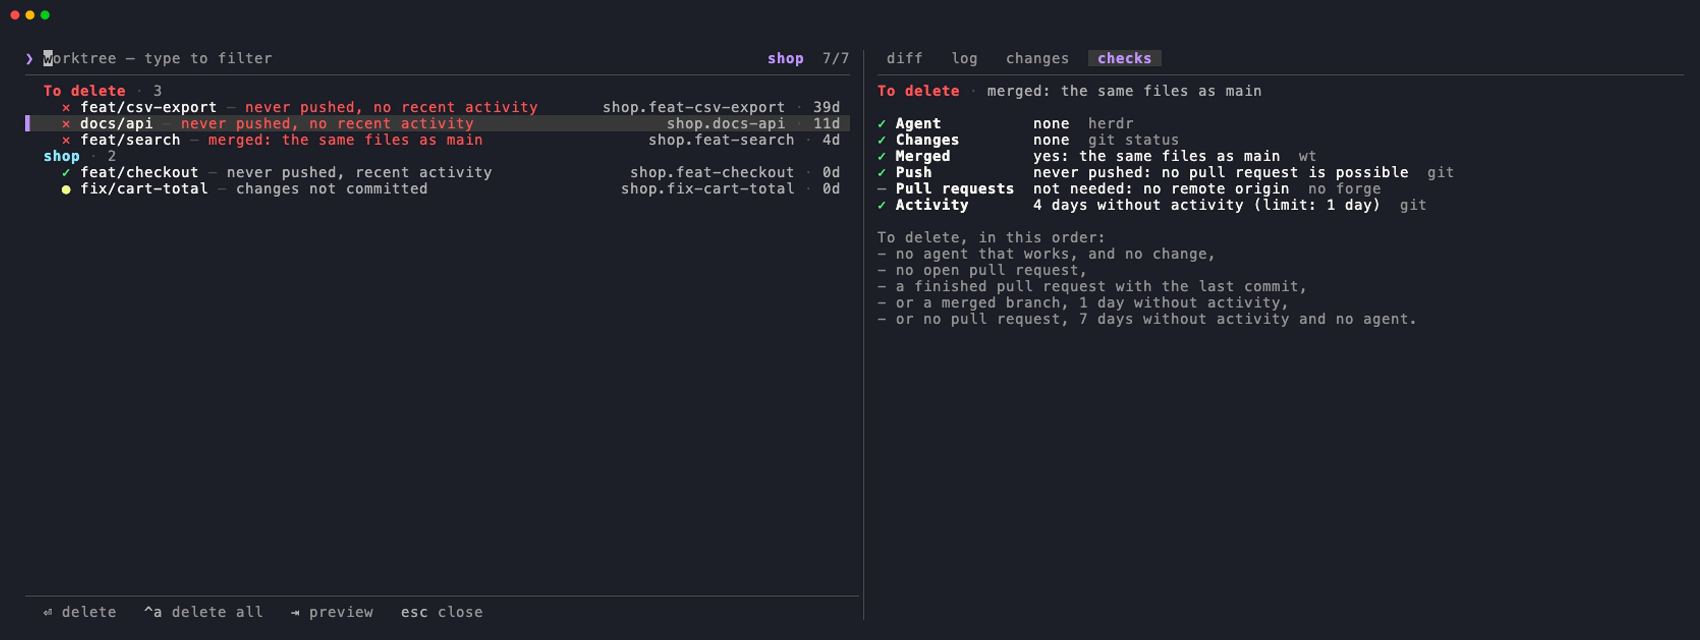
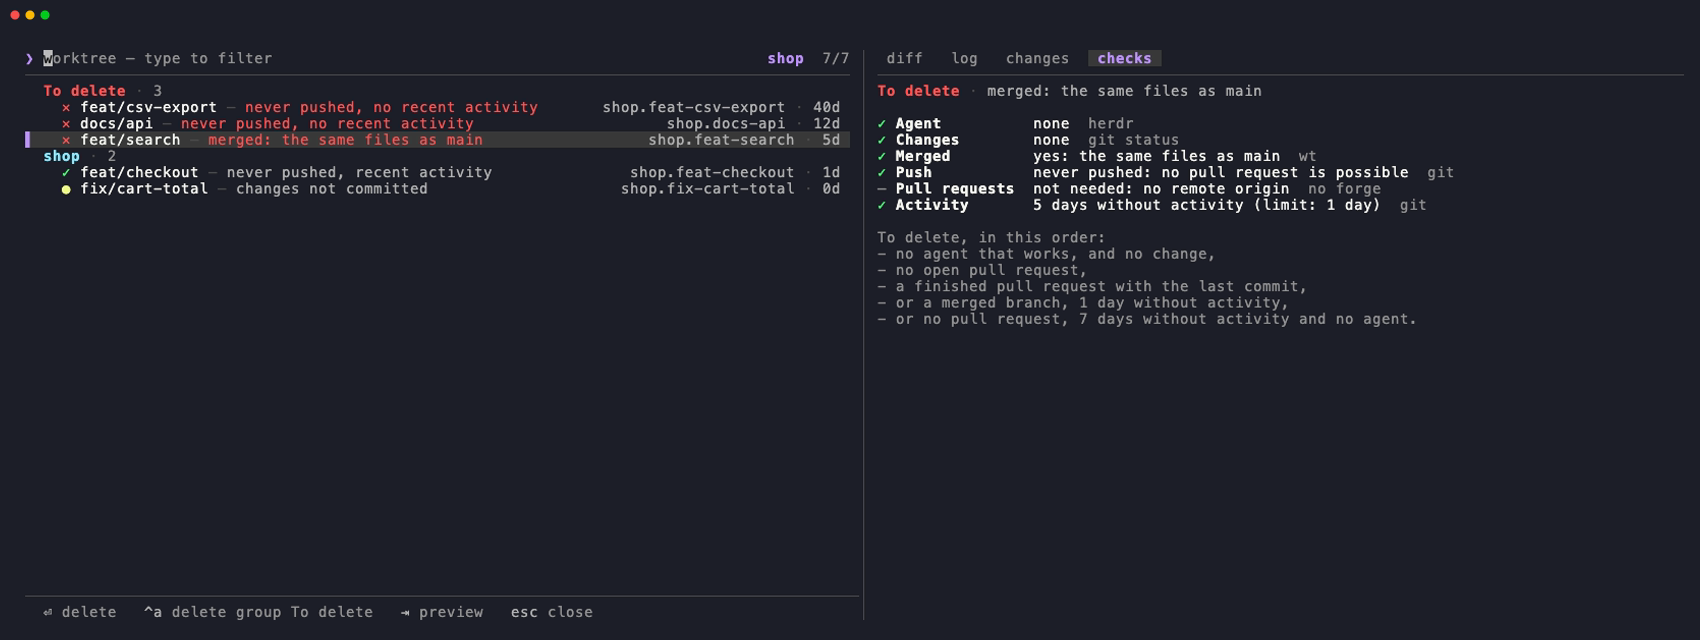
fix: ctrl-a deletes only the leftovers that the filter shows
Before, ctrl-a took all the group To delete, also the rows that the filter of fzf hid.

- ctrl-a gives the ids of the rows that the filter shows ({*f1}). The cleaner keeps the leftovers among them, and writes their paths in a file of the choice. "Delete all" deletes only these worktrees. A worktree of another group never goes, also when the filter shows it.
- If the filter shows no leftover, the header says "The filter shows no worktree of the group To delete."
- The hint says "^a delete group To delete". The question says how many worktrees the filter hides, and that the other groups stay. Its button is "Delete".
- The README and its images follow.

Changed region(s): [[0.0, 0.1562, 0.4988, 0.25], [0.1247, 0.9375, 0.3429, 0.9688]]

diff --git a/src/cleaner.rs b/src/cleaner.rs
@@ -7,8 +7,9 @@
 //!
 //! The module `leftover` gives the layers of the checks and the verdict.
 //!
-//! `Enter` deletes one worktree after a question, `ctrl-a` deletes the
-//! group "To delete". Then the list comes back.
+//! `Enter` deletes one worktree after a question. `ctrl-a` deletes the
+//! worktrees of the group "To delete" that the filter shows, never a kept
+//! worktree. Then the list comes back.
 //!
 //! fzf runs this binary for its events: `cleaner-rows` gives the rows,
 //! `cleaner-move` moves the cursor over the titles of the groups, and
@@ -49,7 +50,7 @@ const GHOST: &str = "worktree — type to filter";
 // The footer has the width of the list: the hints must be short.
 const HINTS: [(&str, &str); 4] = [
     ("⏎", "delete"),
-    ("^a", "delete all"),
+    ("^a", "delete group To delete"),
     ("⇥", "preview"),
     ("esc", "close"),
 ];
@@ -161,16 +162,64 @@ pub fn read_state(path: &Path) -> Vec<Entry> {
         .collect()
 }
 
-/// The leftovers of the state file: the group To delete, for "delete all".
-pub fn leftovers(state_path: &Path) -> Vec<Entry> {
-    leftover_entries(read_state(state_path))
+/// The file of the worktrees that `ctrl-a` chose: the leftovers that the
+/// filter of fzf shows, one path for each line.
+pub fn chosen_path(state_path: &Path) -> PathBuf {
+    state_path.with_extension("delete")
 }
 
-fn leftover_entries(entries: Vec<Entry>) -> Vec<Entry> {
-    entries
+/// The worktrees that "delete all" deletes: the leftovers of the state
+/// file that `ctrl-a` chose and that still exist, and the number of all
+/// the leftovers of the group To delete. The file of the choice goes away.
+pub fn chosen_leftovers(state_path: &Path) -> (Vec<Entry>, usize) {
+    let chosen_file = chosen_path(state_path);
+    let chosen = fs::read_to_string(&chosen_file).unwrap_or_default();
+    let _ = fs::remove_file(&chosen_file);
+    let leftovers: Vec<Entry> = read_state(state_path)
         .into_iter()
-        .filter(|entry| entry.reason.is_leftover())
+        .filter(|entry| entry.reason.is_leftover() && entry.path.exists())
+        .collect();
+    let total = leftovers.len();
+    (chosen_entries(leftovers, &chosen), total)
+}
+
+/// The leftovers whose path is a line of `chosen`.
+fn chosen_entries(leftovers: Vec<Entry>, chosen: &str) -> Vec<Entry> {
+    let chosen: HashSet<&Path> = chosen.lines().map(Path::new).collect();
+    leftovers
+        .into_iter()
+        .filter(|entry| entry.reason.is_leftover() && chosen.contains(entry.path.as_path()))
         .collect()
+}
+
+/// The answer of fzf to `ctrl-a`.
+#[derive(Debug, PartialEq, Eq)]
+enum DeleteAllAnswer {
+    /// Delete these leftovers, after a question.
+    Delete(Vec<PathBuf>),
+    /// No deletion: the header tells why.
+    Header(&'static str),
+}
+
+/// The answer to `ctrl-a`: the leftovers among the rows that the filter
+/// shows (`visible`, one id for each line). A kept worktree never goes.
+fn delete_all_answer(entries: &[Entry], visible: &str) -> DeleteAllAnswer {
+    let visible: HashSet<&str> = visible.lines().collect();
+    let chosen: Vec<PathBuf> = entries
+        .iter()
+        .filter(|entry| entry.reason.is_leftover())
+        .filter(|entry| visible.contains(entry.path.to_string_lossy().as_ref()))
+        .map(|entry| entry.path.clone())
+        .collect();
+    if !chosen.is_empty() {
+        DeleteAllAnswer::Delete(chosen)
+    } else if entries.iter().any(|entry| entry.reason.is_leftover()) {
+        DeleteAllAnswer::Header("The filter shows no worktree of the group To delete.")
+    } else if entries.iter().any(|entry| entry.reason == Reason::Checking) {
+        DeleteAllAnswer::Header("The checks run: wait for the group To delete.")
+    } else {
+        DeleteAllAnswer::Header("The group To delete is empty.")
+    }
 }
 
 /// The main checkouts of the repositories of the herdr workspaces, the
@@ -854,16 +903,23 @@ pub fn print_enter(kind: &str) {
     }
 }
 
-/// fzf event `cleaner-delete-all`: accept the deletion of the group "To
-/// delete" if it has worktrees.
-pub fn print_delete_all(state_path: &Path) {
-    let entries = read_state(state_path);
-    if entries.iter().any(|entry| entry.reason.is_leftover()) {
-        println!("print({DELETE_ALL_REQUEST})+accept");
-    } else if entries.iter().any(|entry| entry.reason == Reason::Checking) {
-        println!("change-header:The checks run: wait for the group To delete.");
-    } else {
-        println!("change-header:The group To delete is empty.");
+/// fzf event `cleaner-delete-all`: accept the deletion of the worktrees of
+/// the group "To delete" that the filter shows (`visible_path`, the file
+/// of `{*f1}`), or tell why not in the header.
+pub fn print_delete_all(state_path: &Path, visible_path: &Path) {
+    let visible = fs::read_to_string(visible_path).unwrap_or_default();
+    match delete_all_answer(&read_state(state_path), &visible) {
+        DeleteAllAnswer::Delete(chosen) => {
+            let text: String = chosen
+                .iter()
+                .map(|path| format!("{}\n", path.display()))
+                .collect();
+            match stale::write_atomically(&chosen_path(state_path), &text) {
+                Ok(()) => println!("print({DELETE_ALL_REQUEST})+accept"),
+                Err(_) => println!("change-header:The cleaner cannot write its choice."),
+            }
+        }
+        DeleteAllAnswer::Header(text) => println!("change-header:{text}"),
     }
 }
 
@@ -1021,7 +1077,8 @@ pub fn choose(
         // Enter and a double-click accept a worktree row only.
         format!("enter:transform({binary} cleaner-enter {{4}})"),
         format!("double-click:transform({binary} cleaner-enter {{4}})"),
-        format!("ctrl-a:transform({binary} cleaner-delete-all {state})"),
+        // {*f1}: a file with the id of each row that the filter shows.
+        format!("ctrl-a:transform({binary} cleaner-delete-all {state} {{*f1}})"),
         format!(
             "tab:transform({binary} picker-tab {state} next {})",
             PREVIEW_TABS.len()
@@ -1344,20 +1401,59 @@ mod tests {
     }
 
     #[test]
-    fn delete_all_takes_the_leftovers_only() {
+    fn ctrl_a_takes_only_the_leftovers_that_the_filter_shows() {
         let entries = entries();
+        // The file of {*f1}: the ids of the rows that the filter shows.
+        let all = "group:to-delete\n/work/zeta.d-merged\n/work/alpha.a-old\n/work/zeta.b-open\n";
+        let filtered = "/work/zeta.d-merged\n/work/zeta.b-open\n";
 
-        let choice = parse_choice("delete-all\n", &entries);
-        let old = leftover_entries(entries.clone());
+        assert_eq!(
+            delete_all_answer(&entries, all),
+            DeleteAllAnswer::Delete(vec![
+                PathBuf::from("/work/alpha.a-old"),
+                PathBuf::from("/work/zeta.d-merged"),
+            ])
+        );
+        // A kept worktree (b-open) never goes, also when the filter shows it.
+        assert_eq!(
+            delete_all_answer(&entries, filtered),
+            DeleteAllAnswer::Delete(vec![PathBuf::from("/work/zeta.d-merged")])
+        );
+        assert_eq!(
+            delete_all_answer(&entries, "/work/zeta.b-open\n"),
+            DeleteAllAnswer::Header("The filter shows no worktree of the group To delete.")
+        );
+        let checking = [entry("c-check", "alpha", Reason::Checking, None)];
+        assert_eq!(
+            delete_all_answer(&checking, ""),
+            DeleteAllAnswer::Header("The checks run: wait for the group To delete.")
+        );
+        assert_eq!(
+            delete_all_answer(&[], ""),
+            DeleteAllAnswer::Header("The group To delete is empty.")
+        );
+        assert_eq!(
+            parse_choice("delete-all\n", &entries),
+            Some(Choice::DeleteAll)
+        );
+    }
 
-        assert_eq!(choice, Some(Choice::DeleteAll));
-        let branches: Vec<&str> = old.iter().map(|entry| entry.branch.as_str()).collect();
-        assert_eq!(branches, ["a-old", "d-merged"]);
-        let kept_only: Vec<Entry> = entries
+    #[test]
+    fn delete_all_deletes_only_the_chosen_leftovers() {
+        let leftovers: Vec<Entry> = entries()
             .into_iter()
-            .filter(|entry| !entry.reason.is_leftover())
+            .filter(|entry| entry.reason.is_leftover())
             .collect();
-        assert_eq!(parse_choice("delete-all\n", &kept_only), None);
+
+        let chosen = chosen_entries(
+            leftovers.clone(),
+            "/work/zeta.d-merged\n/work/zeta.b-open\n",
+        );
+        let branches: Vec<&str> = chosen.iter().map(|entry| entry.branch.as_str()).collect();
+
+        assert_eq!(branches, ["d-merged"]);
+        // No file of the choice: nothing to delete.
+        assert!(chosen_entries(leftovers, "").is_empty());
     }
 
     #[test]

diff --git a/src/actions.rs b/src/actions.rs
@@ -475,10 +475,7 @@ fn delete_all() -> Result<(), Error> {
     // The state file keeps the results of the checks: the cleaner reads it
     // again after the question.
     let state_path = PathBuf::from(env::var_os(STATE_VARIABLE).unwrap_or_default());
-    let old: Vec<cleaner::Entry> = cleaner::leftovers(&state_path)
-        .into_iter()
-        .filter(|entry| entry.path.exists())
-        .collect();
+    let (old, total) = cleaner::chosen_leftovers(&state_path);
     if old.is_empty() {
         return Ok(());
     }
@@ -492,12 +489,23 @@ fn delete_all() -> Result<(), Error> {
     } else {
         String::new()
     };
+    // Only the group To delete: the kept worktrees never go.
+    let hidden = if total > old.len() {
+        let hidden = total - old.len();
+        format!(
+            "\nThe filter hides {} of the group: {}.",
+            worktrees_text(hidden),
+            if hidden == 1 { "it stays" } else { "they stay" }
+        )
+    } else {
+        String::new()
+    };
     let question = format!(
-        "Delete {} of the group To delete?\n{}{more}\nwt keeps a branch that is not merged.",
+        "Delete {} of the group To delete?\n{}{more}{hidden}\nThe other groups stay. wt keeps a branch that is not merged.",
         worktrees_text(old.len()),
         shown.join("\n")
     );
-    if !ui::confirm("Clean the worktrees", &question, "Delete all", true) {
+    if !ui::confirm("Clean the worktrees", &question, "Delete", true) {
         return Ok(());
     }
     let mut deleted = 0;
@@ -568,8 +576,8 @@ fn delete_all() -> Result<(), Error> {
 }
 
 /// Popup cleaner: all the linked worktrees, checked in the background.
-/// `Enter` deletes one, `ctrl-a` deletes the group "To delete", through
-/// the popup confirm. Then the list comes back, without the deleted
+/// `Enter` deletes one, `ctrl-a` deletes the worktrees of the group "To
+/// delete" that the filter shows, through the popup confirm. Then the list comes back, without the deleted
 /// worktrees.
 ///
 /// The list covers `TRUNK_CLEANER_SCOPE`, or all the repositories of the

diff --git a/src/main.rs b/src/main.rs
@@ -191,8 +191,8 @@ fn main() -> ExitCode {
             cleaner::print_enter(kind);
             return ExitCode::SUCCESS;
         }
-        ["cleaner-delete-all", state] => {
-            cleaner::print_delete_all(Path::new(state));
+        ["cleaner-delete-all", state, visible] => {
+            cleaner::print_delete_all(Path::new(state), Path::new(visible));
             return ExitCode::SUCCESS;
         }
         ["cleaner-preview", state, stale_days, id, branch, main_checkout, kind] => {

diff --git a/README.md b/README.md
@@ -53,7 +53,7 @@ The worktrunk picker (`wt switch`) has fixed keys (`alt-c`, `alt-x`), and a term
 |-----|--------|
 | `↑` `↓` | Move to the next worktree, over the titles of the groups. |
 | `Enter` | Asks to delete the worktree. The question gives its reason, for example an open pull request. |
-| `ctrl-a` | Asks to delete the group To delete. |
+| `ctrl-a` | Asks to delete the worktrees of the group To delete that the filter shows. A worktree of another group never goes. |
 | `Tab`, `shift-Tab` | Change the tab of the preview: `diff`, `log`, `changes`, and `checks`: the verdict and the result of each layer. |
 | `Esc` | Quits. |
 
